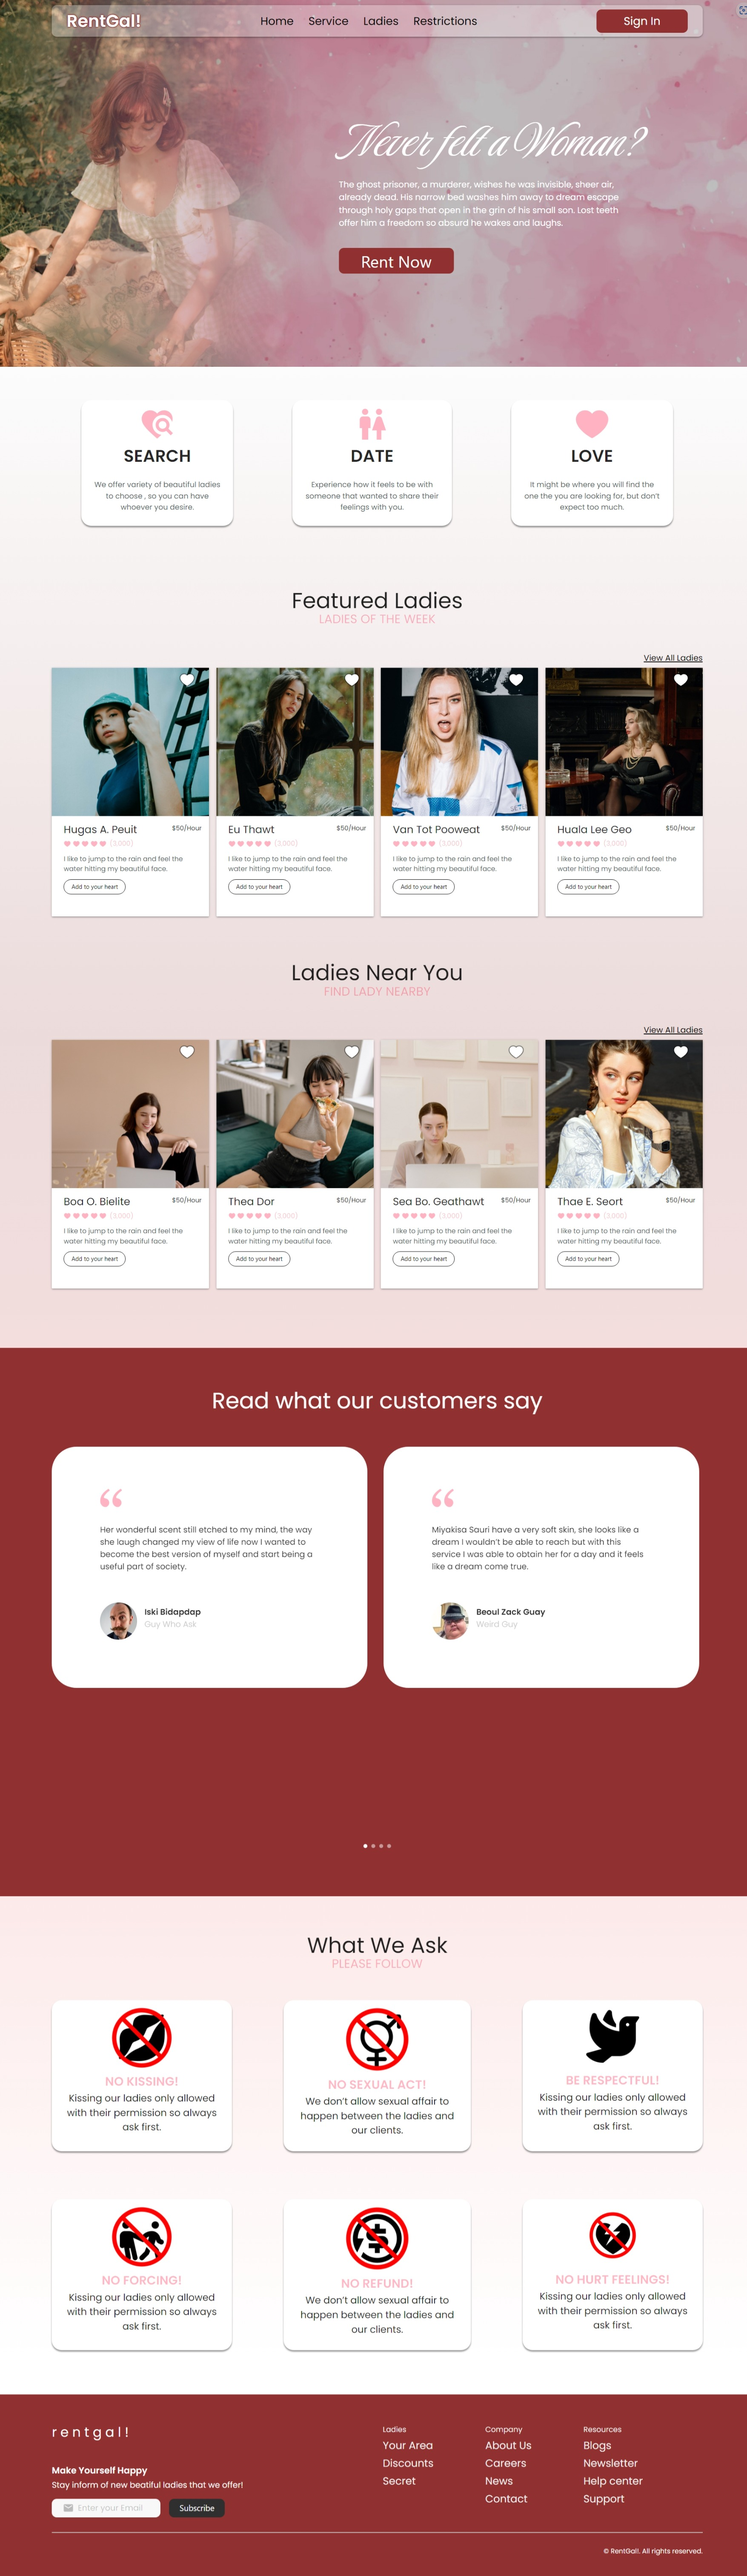
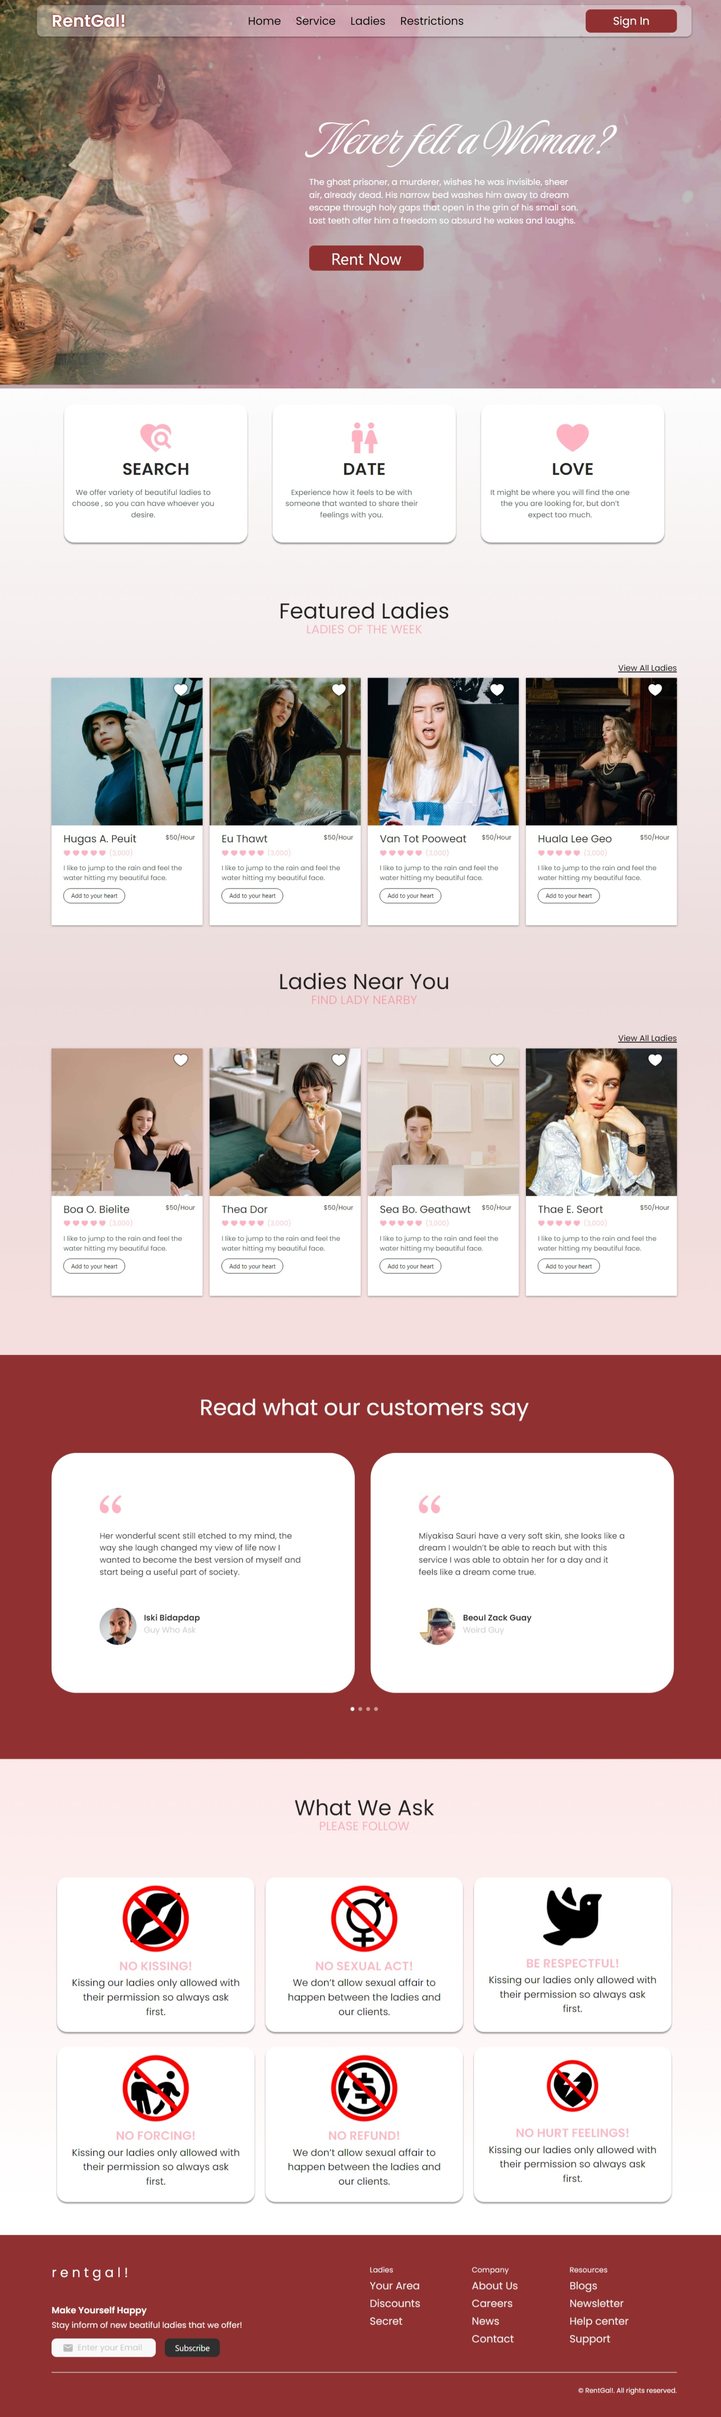
Gellow the color of the day is yellow update the responsiveness

diff --git a/style.css b/style.css
@@ -513,7 +513,35 @@ nav {
 
 }
 
+@media only screen and (max-width: 1200px) {
+    #header {
+        height: 100vh;
+    }
+
+     #header .background {
+        width: 300%;
+    }
+
+    #header .background img:not(.back) {
+        margin-left: -5rem;
+        margin-top: 2rem !important;
+    }
+
+    #header .content > div {
+        width: 80% !important;
+        margin-left: 15%;
+    }
+
+    #review .card {
+        width: 100%;
+    }
+}
+
 @media only screen and (min-width:768px){
+    .navbar {
+        padding: 0 5rem !important;
+     }
+
     #product .card {
         display: none;
     }
@@ -529,9 +557,14 @@ nav {
     #product .card:nth-child(3) {
         display: block;
     }
+
 }
 
 @media only screen and (min-width:600px){
+    .navbar {
+       padding: 0 0;
+    }
+
     #product .card {
         display: none;
     }

diff --git a/index.html b/index.html
@@ -53,7 +53,7 @@
         <img src="./images/header-bg(1).jpg" alt="" width="40%">
       </div>
       <div class="row content">
-        <div class="col s12 l6 offset-l5 offset-s1 " style="margin-top: 15%;">
+        <div class="col m12 l6 offset-l5 offset-m1 offset-s1 " style="margin-top: 15%;">
           <h1>Never felt a Woman?</h1>
           <p>The ghost prisoner, a murderer, wishes he was invisible, sheer air,
             already dead. His narrow bed washes him away to dream escape
